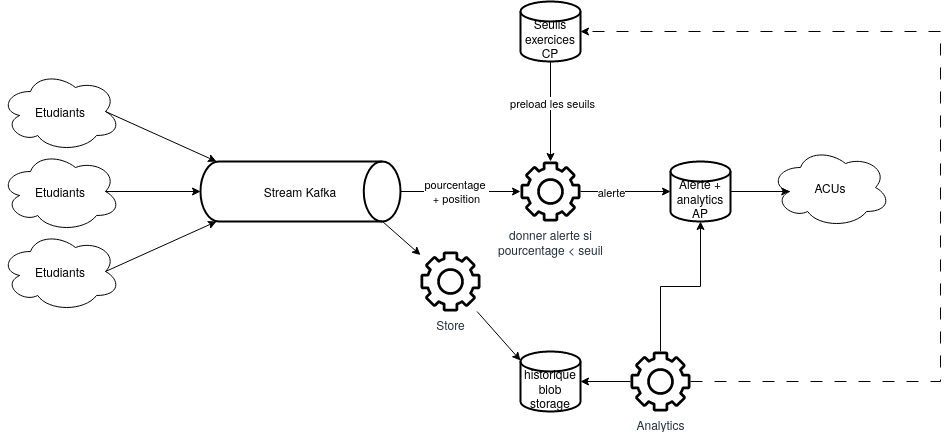
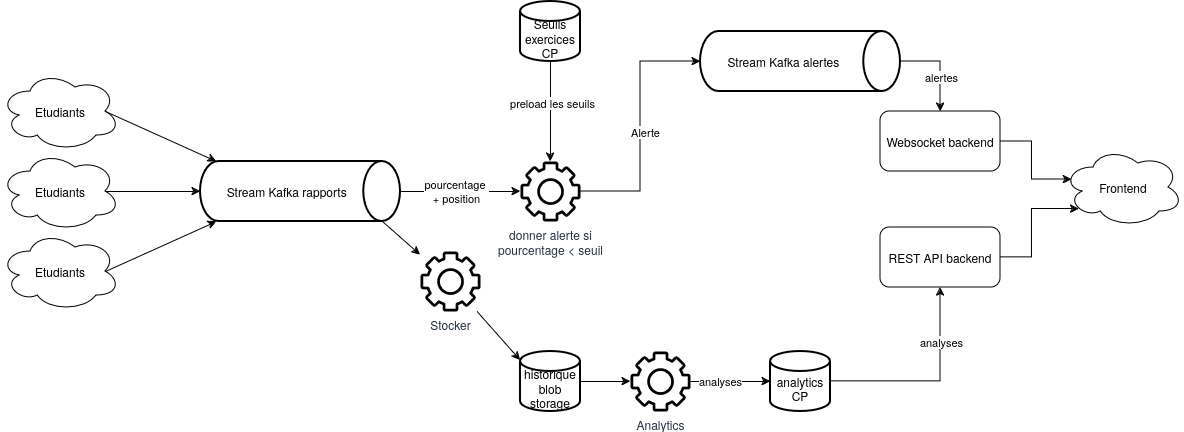
feat: updated architecture representation

diff --git a/README.md b/README.md
@@ -33,6 +33,14 @@ comportant les services suivants:
 - **dashboard-backend**: le backend du dashboard permettant de recuperer la donnee
   stockee dans analytics-db.
 
+## Ce qui n'a pas pu etre implementee
+
+- **alert-system** ne charge pas les seuils pour les exercices depuis une base de
+  donnees. A la place, un seuil fixe et universel pour tous les exercices peut
+  etre specifie en variable d'environnement.
+- Les alertes n'ont pas pu etre communiquees par websocket. Elles sont pour
+  l'instant stockees (et en attente) dans la stream **kafka-out**.
+
 ## Pour demarrer l'infrastructure
 
 Veuillez executer la commande suivante:
